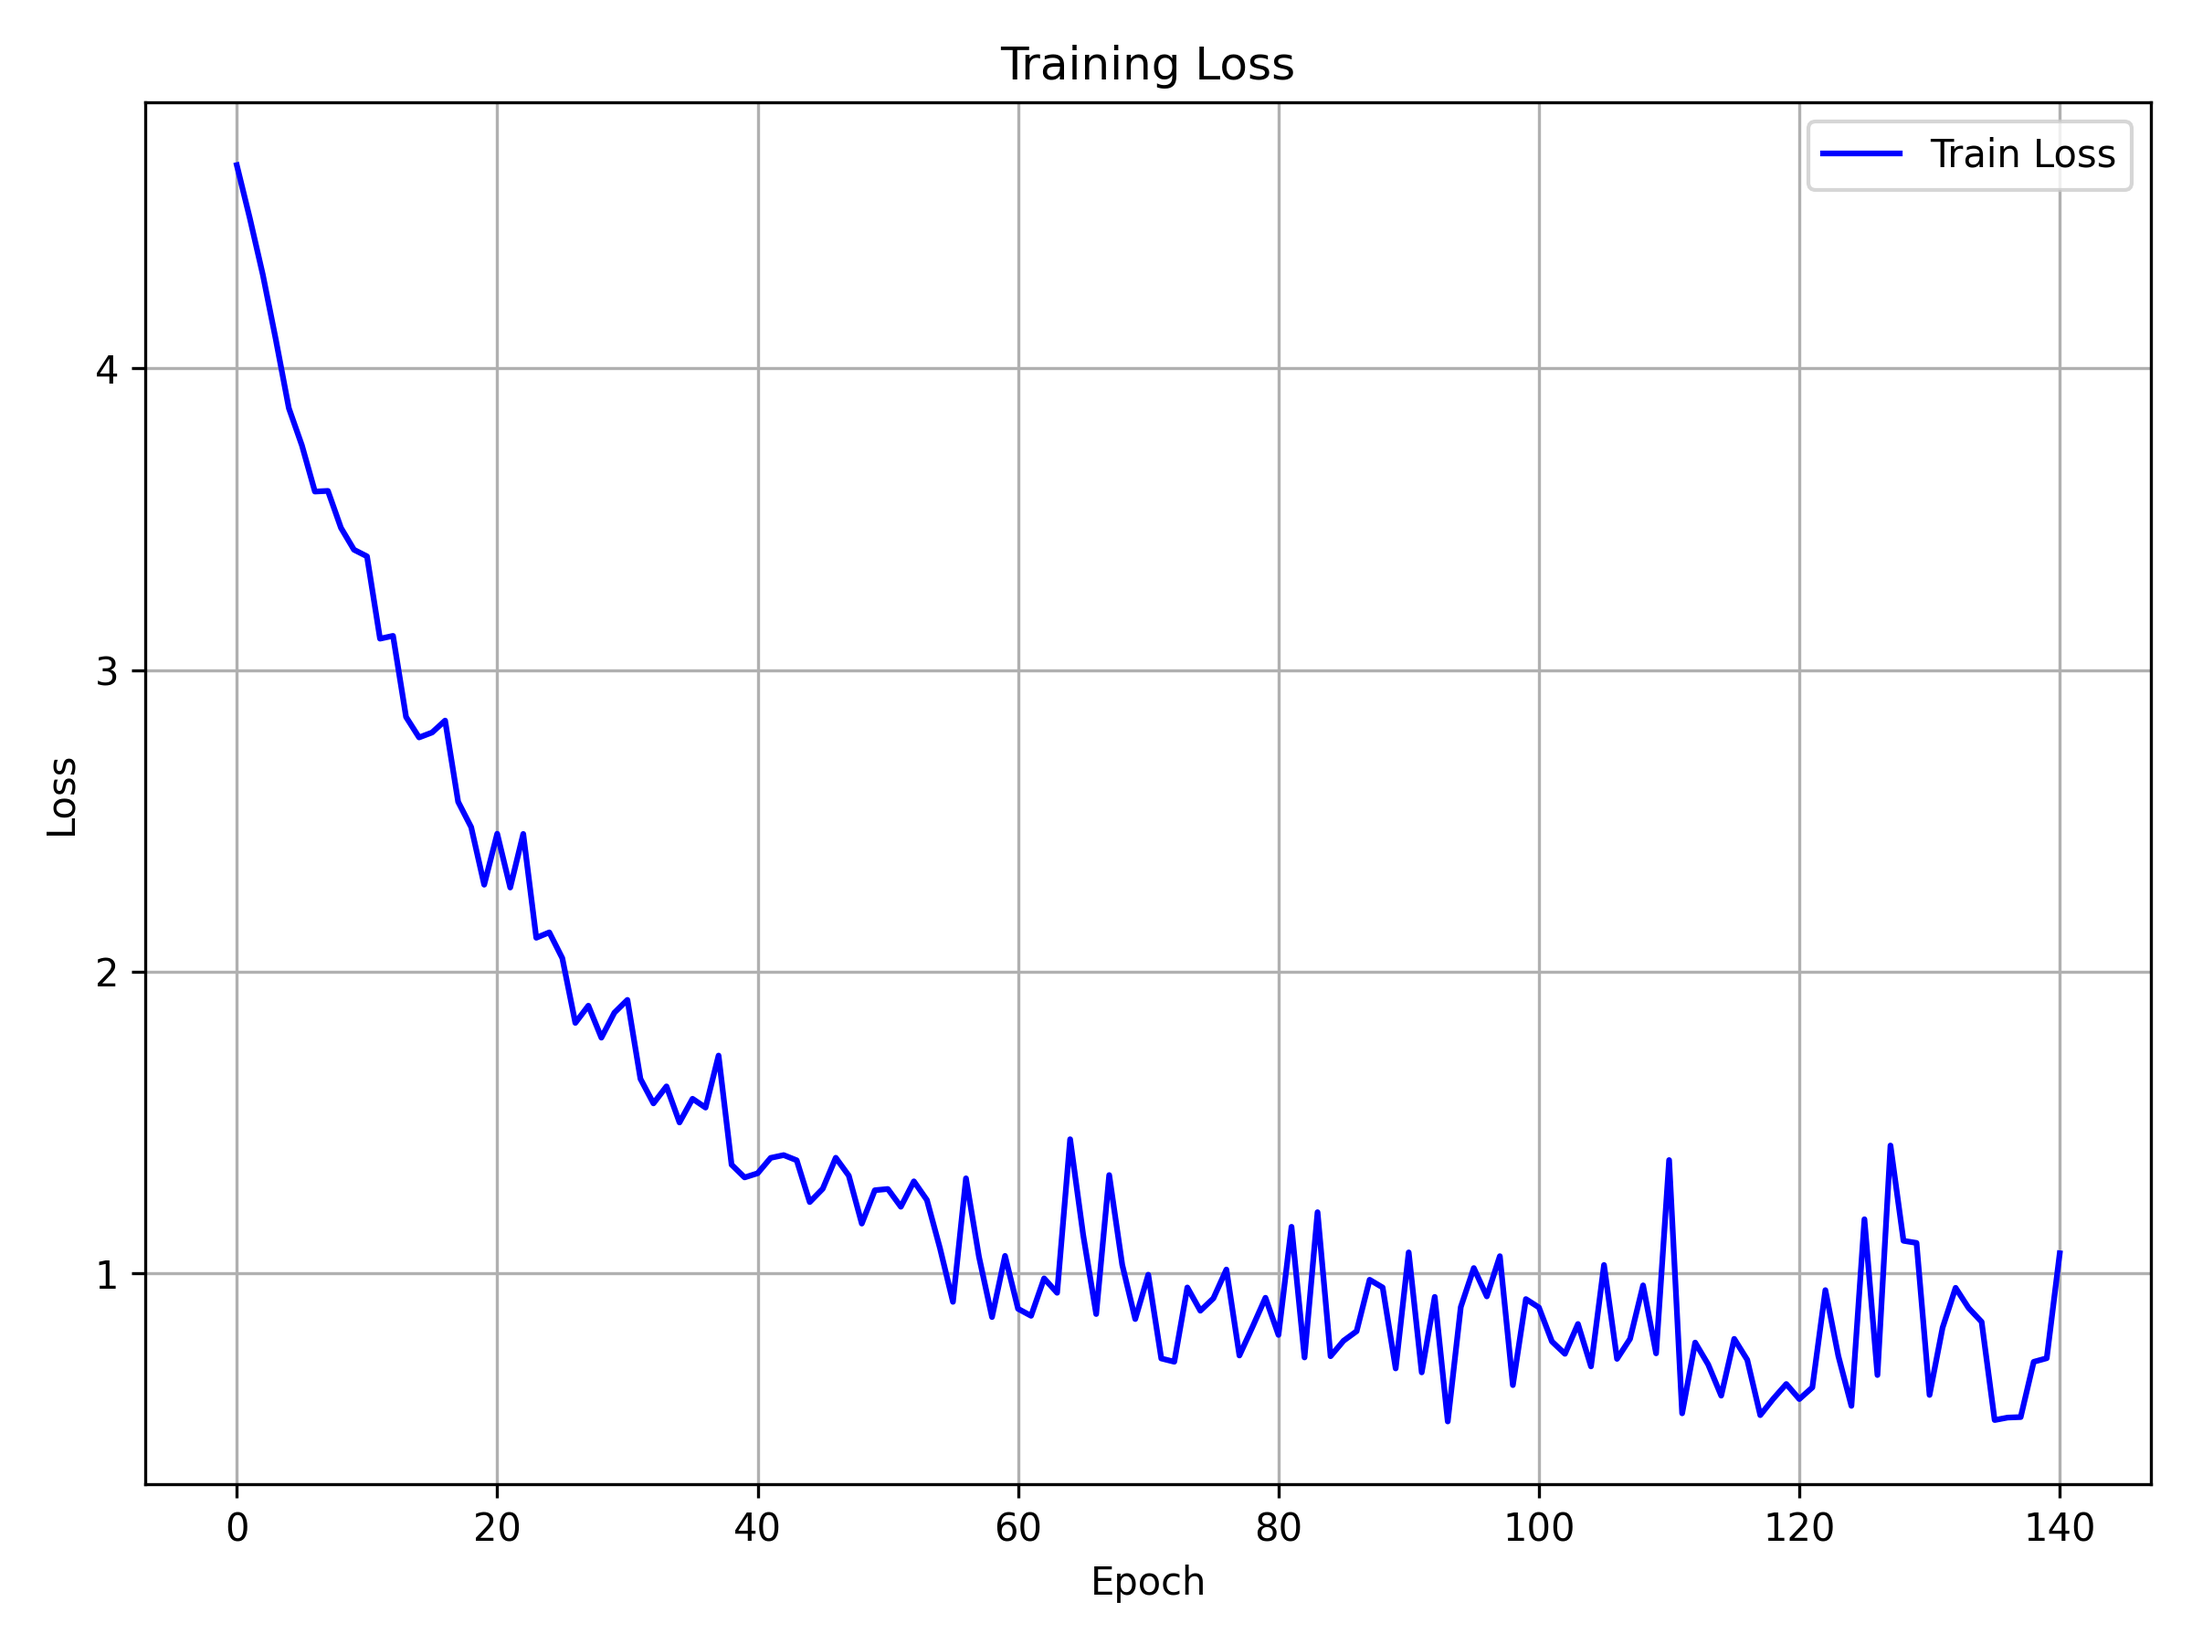
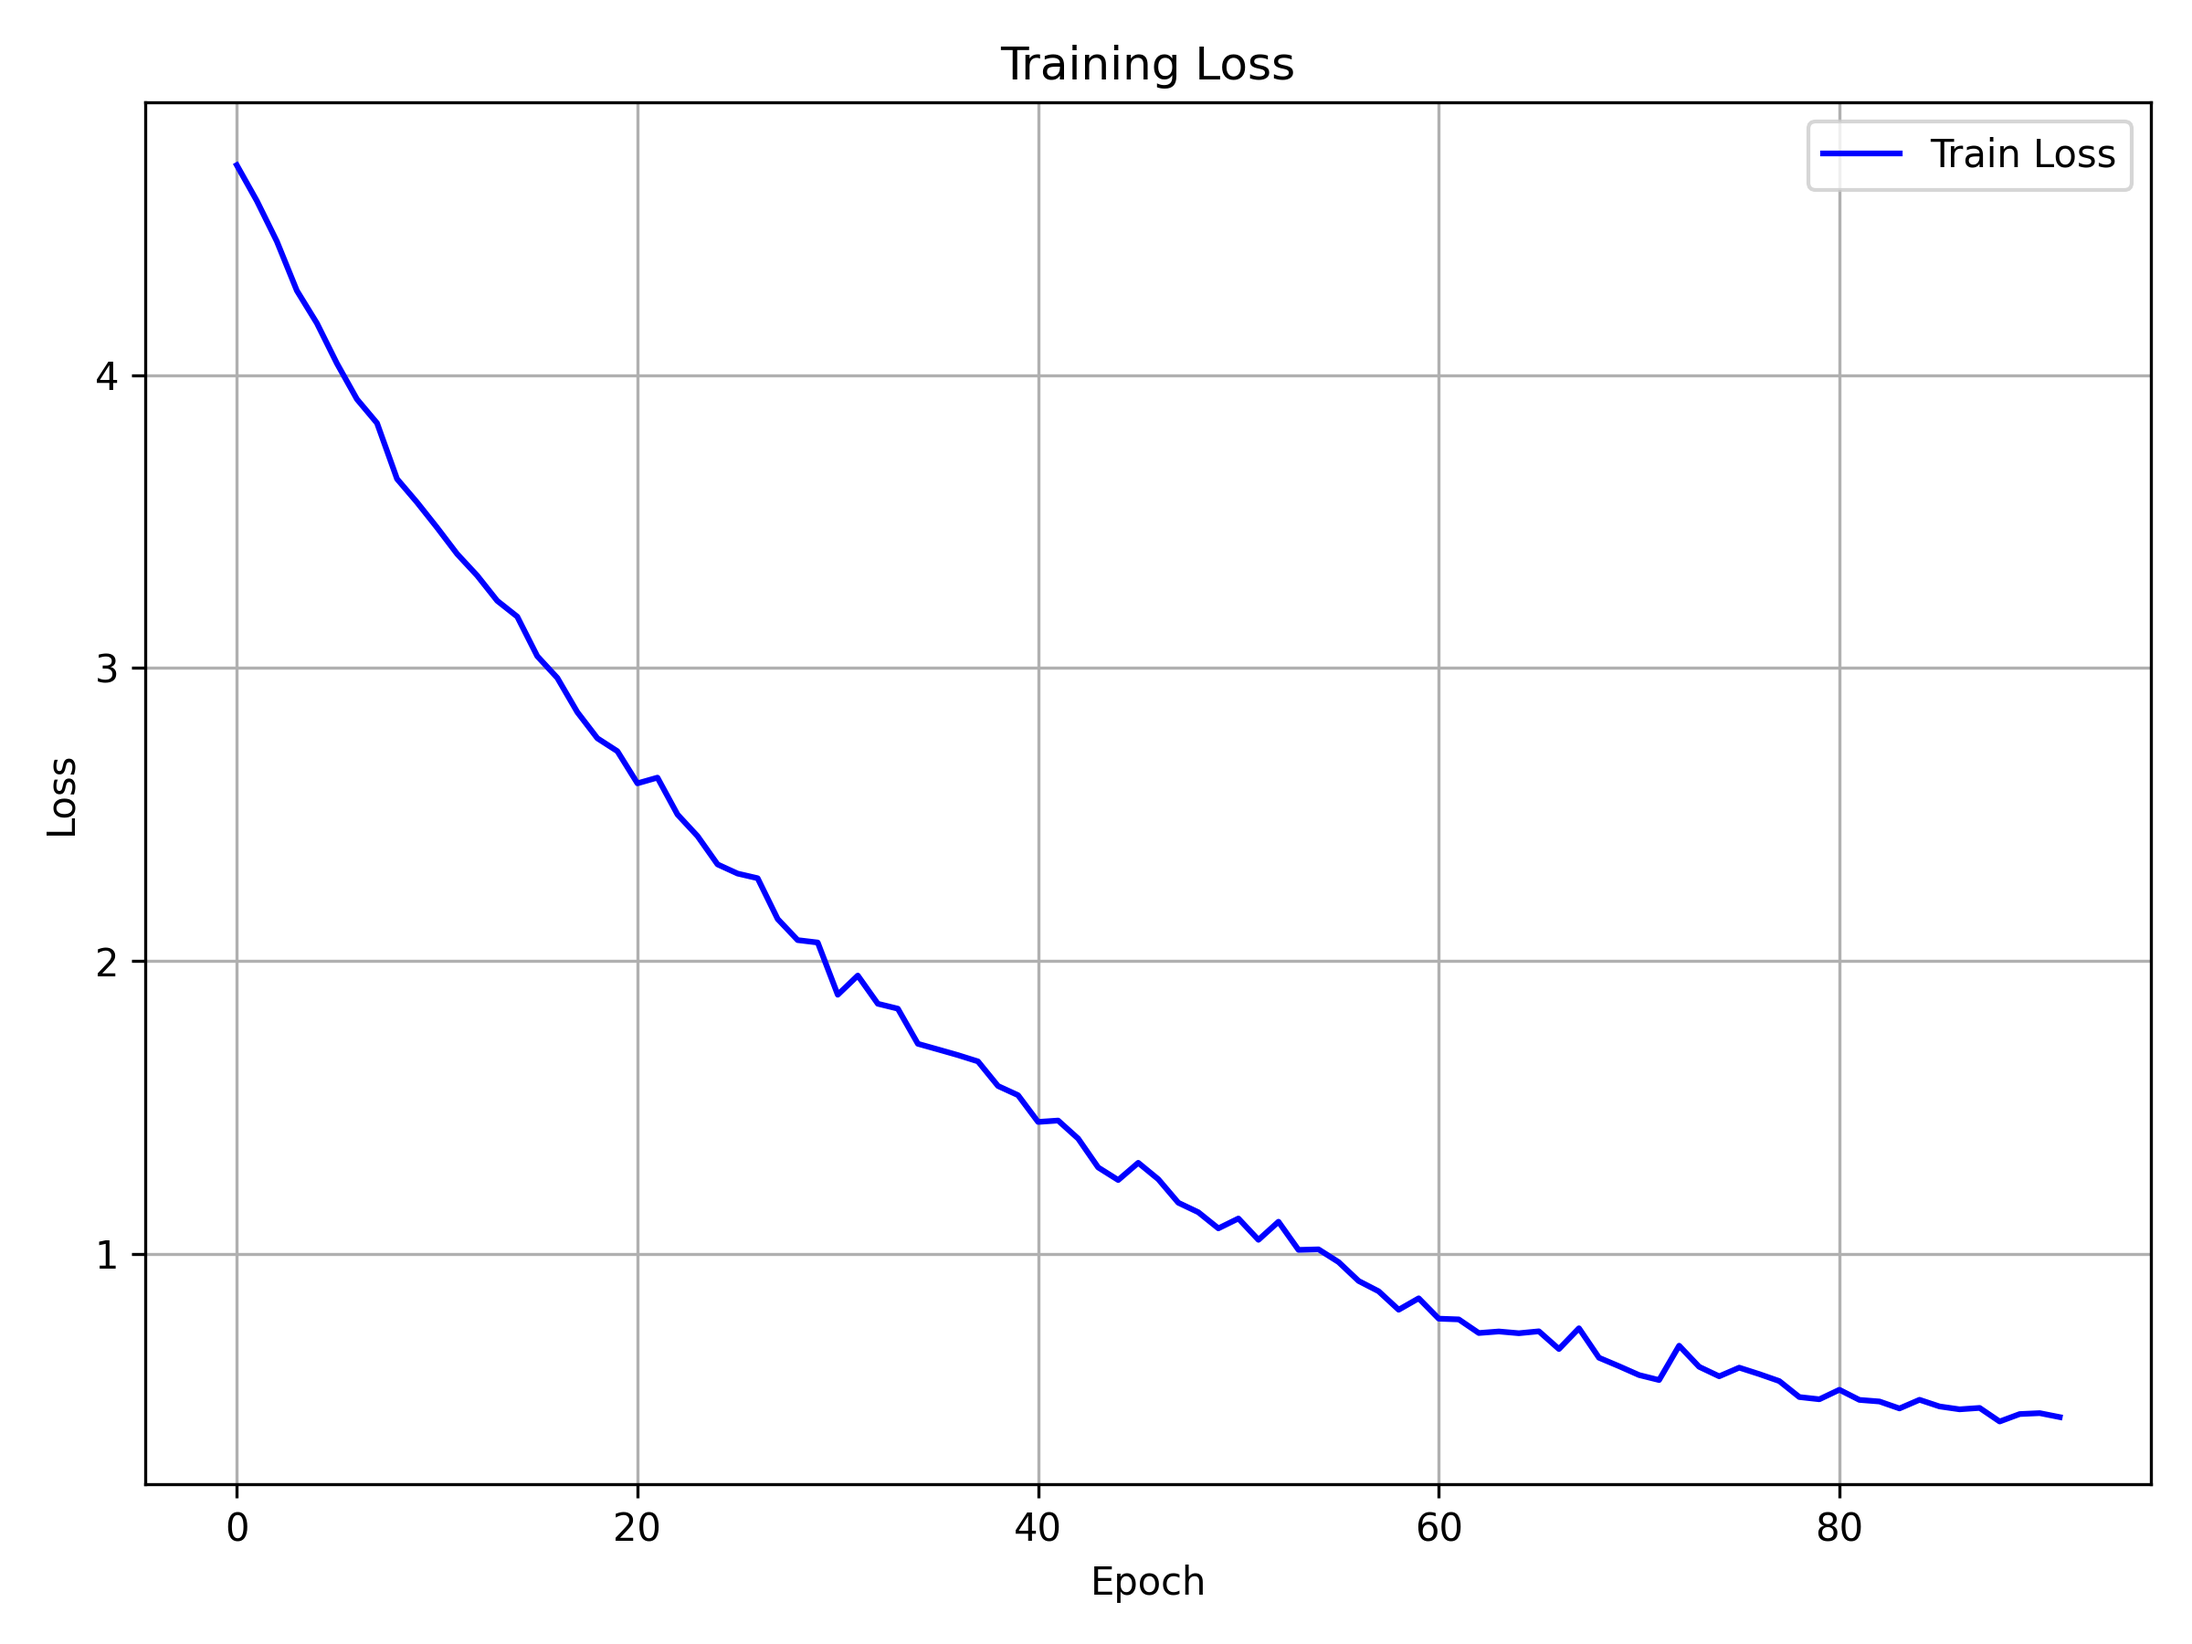
last_best_model

diff --git a/run.py b/run.py
@@ -8,19 +8,19 @@ import joblib
 import seaborn as sns
 from sklearn.metrics import confusion_matrix, precision_recall_fscore_support
 import time
-
 from data_utils import load_data
 from model import FaceClassifier
 from train import train
 from test import evaluate
-def run_training():  # Modifica qui per accettare seed come parametro
+
+def run_training(seed=None):  
     # === Config ===
     csv_path = 'dataset_features_final.csv'
-    batch_size = 32
+    batch_size = 64
     lr = 1e-3
-    num_epochs = 200
+    num_epochs = 150
     patience = 20
-    seed = 42
+    #seed = 42
     
     # Usa seed solo se specificato, altrimenti sarà None
     random.seed(seed)
@@ -37,8 +37,12 @@ def run_training():  # Modifica qui per accettare seed come parametro
     train_dataset, val_dataset, test_dataset, label_encoder = load_data(csv_path, seed=seed) 
 
 
-    train_loader = DataLoader(train_dataset, batch_size=batch_size, shuffle=True)
-    val_loader = DataLoader(val_dataset, batch_size=batch_size, shuffle=True)
+    g = torch.Generator()
+    g.manual_seed(seed)
+
+    train_loader = DataLoader(train_dataset, batch_size=batch_size, shuffle=True, generator=g)
+    val_loader = DataLoader(val_dataset, batch_size=batch_size, shuffle=True, generator=g)
+
 
     input_dim = train_dataset[0][0].shape[0]
     num_classes = len(label_encoder.classes_)
@@ -50,7 +54,7 @@ def run_training():  # Modifica qui per accettare seed come parametro
     train_losses, train_accuracies = [], []
     val_accuracies, val_precisions, val_recalls, val_f1s = [], [], [], []
     val_inference_times = []
-    best_acc = 0.0
+    best_val_loss = float('inf')
     best_model_state = None
     patience_counter = 0
 
@@ -67,12 +71,12 @@ def run_training():  # Modifica qui per accettare seed come parametro
         val_inference_times.append(val_inf_time)
 
         print(f"Epoch [{epoch+1}/{num_epochs}] "
-              f"Train Loss: {train_loss:.4f} | Train Acc: {train_acc*100:.2f}% | "
-              f"Val Acc: {val_acc*100:.2f}% | Val F1: {val_f1:.3f} | "
-              f"Val Inf Time: {val_inf_time*1000:.2f}ms")
+            f"Train Loss: {train_loss:.4f} | Train Acc: {train_acc*100:.2f}% | "
+            f"Val Loss: {val_loss:.4f} | Val Acc: {val_acc*100:.2f}% | Val F1: {val_f1:.3f} | "
+            f"Val Inf Time: {val_inf_time*1000:.2f}ms")
 
-        if val_acc > best_acc:
-            best_acc = val_acc
+        if val_loss < best_val_loss - 1e-4:  # Un piccolo delta per evitare salvataggi dovuti a fluttuazioni minime
+            best_val_loss = val_loss
             best_model_state = model.state_dict()
             patience_counter = 0
         else:
@@ -81,10 +85,11 @@ def run_training():  # Modifica qui per accettare seed come parametro
                 print(f"⏹ Early stopping at epoch {epoch+1}")
                 break
 
+
     if best_model_state is not None:
         model.load_state_dict(best_model_state)
 
-    print(f"✅ Best Validation Accuracy: {best_acc * 100:.2f}%")
+    print(f"✅ Best Validation Loss: {best_val_loss:.4f}")
     print(f"📊 Average Inference Time: {np.mean(val_inference_times)*1000:.2f}ms")
 
     # === Final evaluation with confusion matrix ===

diff --git a/test.py b/test.py
@@ -103,7 +103,10 @@ def run_test(seed=None):  # Aggiungi seed come parametro opzionale
 
     # Load test data con eventuale seed
     _, _, test_dataset, label_encoder = load_data(csv_path, seed=seed)
-    test_loader = DataLoader(test_dataset, batch_size=batch_size, shuffle=True)
+    g = torch.Generator()
+    g.manual_seed(seed)
+
+    test_loader = DataLoader(test_dataset, batch_size=batch_size, shuffle=False, generator=g)
 
     input_dim = test_dataset[0][0].shape[0]
     num_classes = len(label_encoder.classes_)

diff --git a/main.py b/main.py
@@ -4,9 +4,10 @@ import numpy as np
 from config import config
 
 if __name__ == "__main__":
-    run_training()  # Esegui il training con un seed specifico
-    run_test()
-    '''print("Avvio server TCP per ricevere immagini da Unity...")
+    '''seed = 1
+    run_training(seed=seed)  
+    run_test(seed=seed)'''
+    print("Avvio server TCP per ricevere immagini da Unity...")
     config()
     from server import run_server  
-    run_server()'''
+    run_server()
